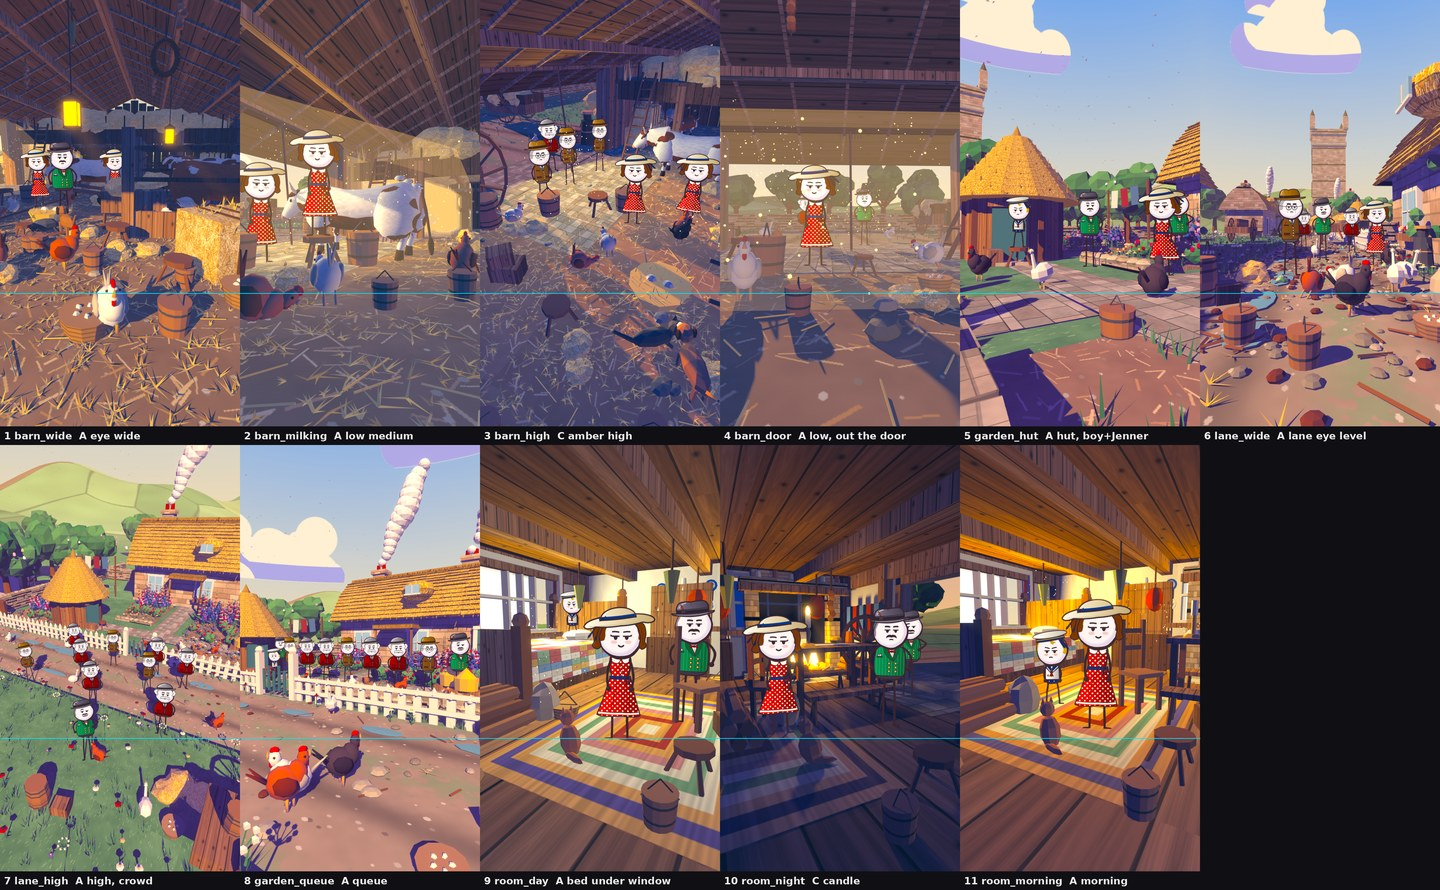
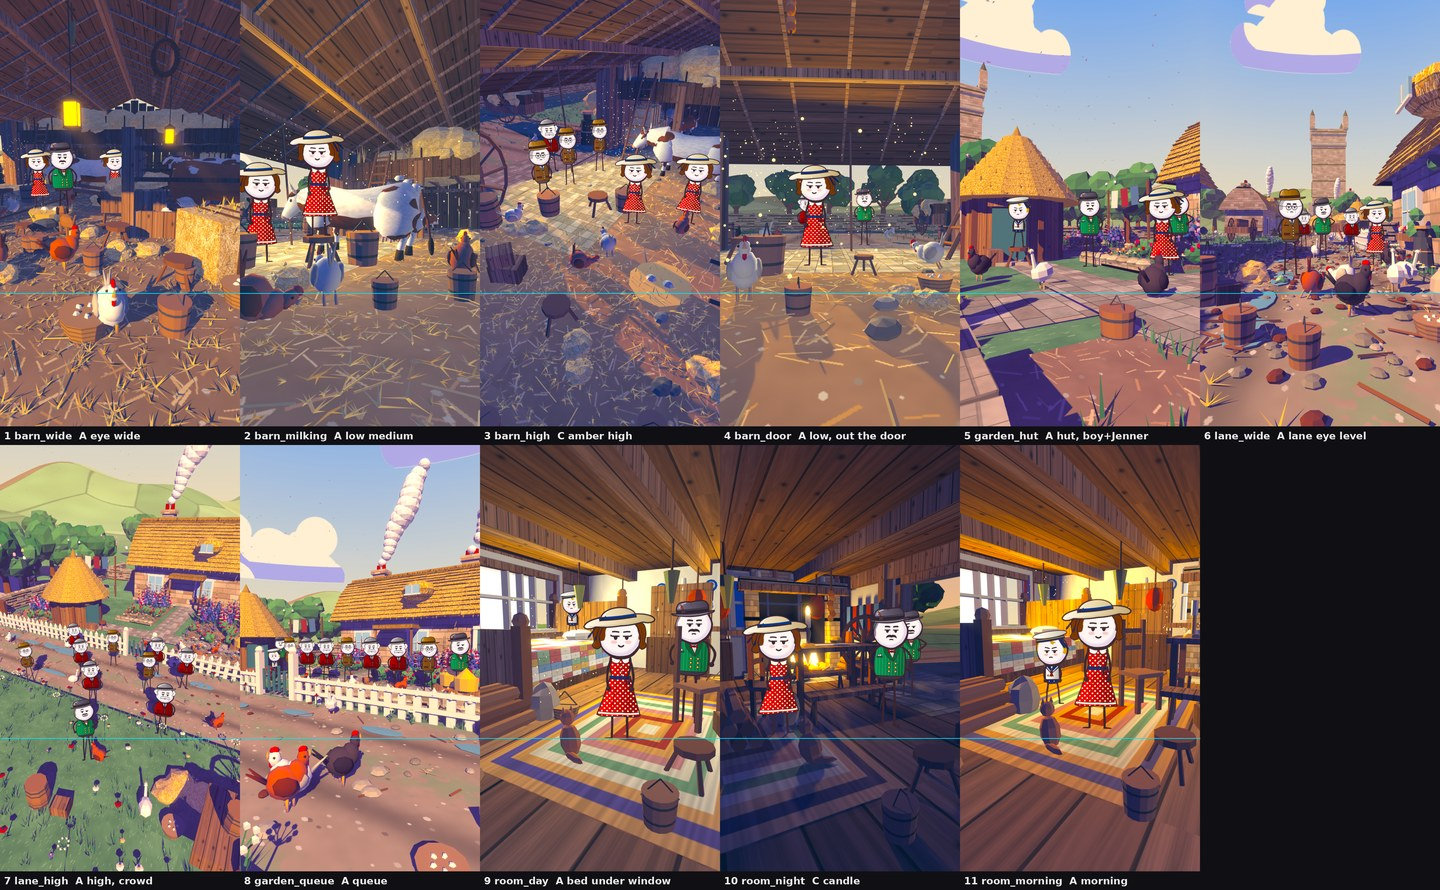
Film 11: set3d11 polish (no hard shaft planes, cleaner barn_high)
Claude-Session: https://claude.ai/code/session_017iwyCwbG6c8sHBMFGbB4ha

diff --git a/film/v3/set3d11/dairy.py b/film/v3/set3d11/dairy.py
@@ -49,10 +49,10 @@ SKY = dict(day=dict(top='#5a8ae0', mid='#8ab4ee', hor='#f6e2bc', cloud_lit='#fff
 ADULT, BOY = 3.2, 2.3                                    # 1 D = head: adults 3.1-3.4 D, the 8-year-old boy 2.3 D
 ROLES = dict(jenner=3.3, boy=BOY, sarah=3.1, maid=3.1, doctor=3.4, mother=3.1, villager=3.2, villager_p=3.2, cow=0.0)
 PRESETS = dict(
-    barn_wide=dict(loc='barn', light='A', cam='barn_wide', sun=(240, 24), look_az=100, P=dict(lift=(0.011, 0.018, 0.036))),
-    barn_milking=dict(loc='barn', light='A', cam='barn_milking', sun=(200, 18), look_az=90, P=dict(shade_mix=0.82, bounce_z=0.2, lift=(0.005, 0.020, 0.036)), fills=[dict(loc=(-9.4, 14.5, 3.0), dir=(1.0, 0.1, -0.35), size=(5.0, 4.5), rgb=(1.0, 0.92, 0.50), energy=900)]),
-    barn_high=dict(loc='barn', light='C', cam='barn_high', sun=(160, 15), look_az=70, P=dict(lift=(0.004, 0.012, 0.030), bounce_z=0.3), fills=[dict(loc=(-9.4, 15.5, 3.0), dir=(1.0, -0.35, -0.3), size=(5.0, 5.0), rgb=(1.0, 0.96, 0.50), energy=1500)]),
-    barn_door=dict(loc='barn', light='A', cam='barn_door', sun=(195, 18), look_az=180, P=dict(air=('#f4cf94', 0.12, 14.0, 160.0), bounce_z=0.1)),
+    barn_wide=dict(loc='barn', light='A', cam='barn_wide', sun=(240, 24), look_az=100, P=dict(lift=(0.0125, 0.018, 0.036))),
+    barn_milking=dict(loc='barn', light='A', cam='barn_milking', sun=(200, 18), look_az=90, P=dict(shade_mix=0.82, bounce_z=0.2, bounce=(1.0, 0.9, 0.3, 0.12), lift=(0.007, 0.020, 0.036)), fills=[dict(loc=(-9.4, 14.5, 3.0), dir=(1.0, 0.1, -0.35), size=(5.0, 4.5), rgb=(1.0, 0.92, 0.50), energy=1600)]),
+    barn_high=dict(loc='barn', light='C', cam='barn_high', sun=(160, 15), look_az=70, P=dict(lift=(0.004, 0.012, 0.030), bounce_z=0.3), fills=[dict(loc=(-9.4, 15.5, 3.0), dir=(1.0, -0.35, -0.3), size=(5.0, 5.0), rgb=(1.0, 0.96, 0.50), energy=1250)]),
+    barn_door=dict(loc='barn', light='A', cam='barn_door', sun=(195, 18), look_az=180, P=dict(air=('#f4cf94', 0.12, 14.0, 160.0), bounce_z=0.2, bounce=(1.0, 0.9, 0.3, 0.12)), fills=[dict(loc=(-9.4, 15.5, 3.0), dir=(1.0, 0.05, -0.3), size=(5.0, 5.0), rgb=(1.0, 0.92, 0.50), energy=1500)]),
     garden_hut=dict(loc='village', light='A', cam='garden_hut', sun=(300, 34), look_az=165, P=dict(shade_mix=0.95, shade=(0.134, 0.104, 0.36), shade_tint=(0.134, 0.102, 0.38), lift=(0.016, 0.010, 0.036))),
     lane_wide=dict(loc='village', light='A', cam='lane_wide', sun=(300, 40), look_az=182, P=dict(shade_mix=0.95, shade=(0.134, 0.104, 0.36), shade_tint=(0.130, 0.104, 0.38), lift=(0.012, 0.011, 0.036))),
     lane_high=dict(loc='village', light='A', cam='lane_high', sun=(300, 36), look_az=95, P=dict(shade_mix=0.95, shade=(0.134, 0.104, 0.36), shade_tint=(0.134, 0.102, 0.38), lift=(0.016, 0.010, 0.036))),
